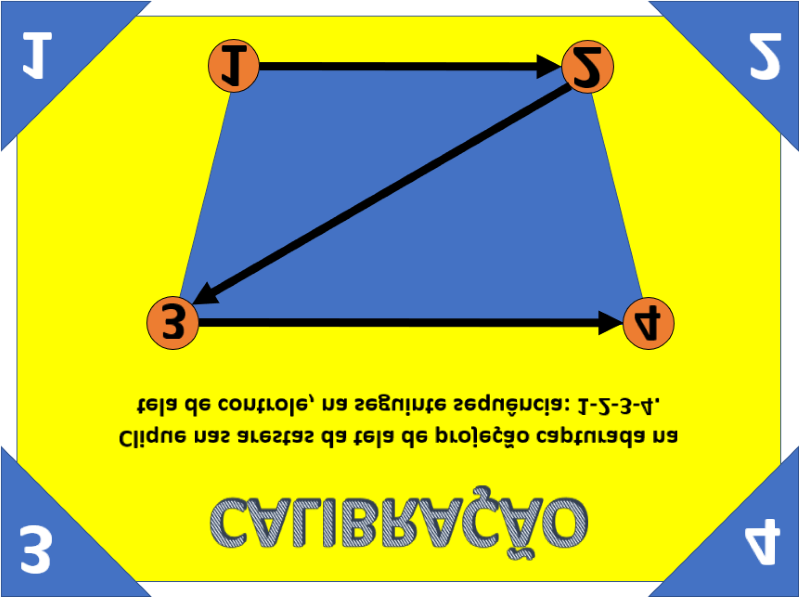
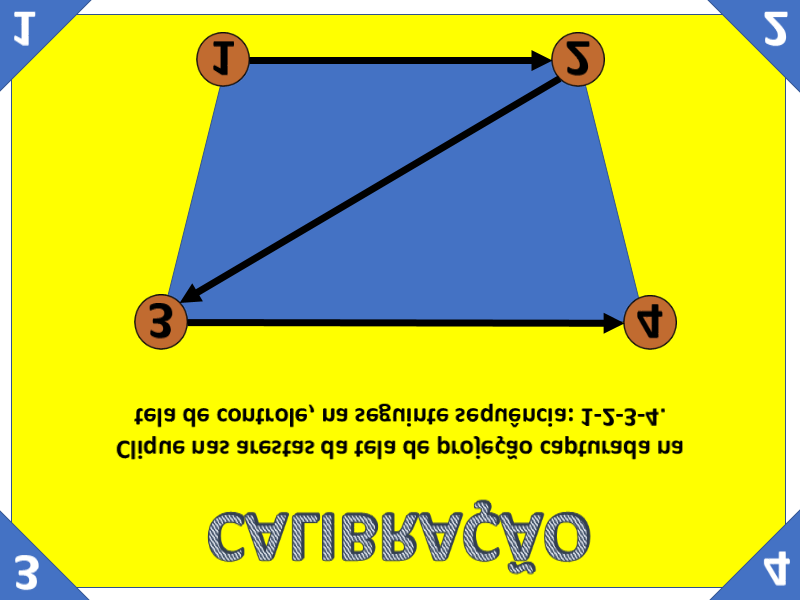
Adição das imagens de calibração manual por idioma. Ajuste da documentação da classe App.

Changed region(s): [[0.0, 0.0, 1.0, 1.0], [0.125, 0.6633, 0.875, 0.7839], [0.75, 0.2111, 0.7812, 0.392]]

diff --git a/src/ttea/main.py b/src/ttea/main.py
@@ -44,7 +44,7 @@ class App:
     Examples
     --------
     >>> app = App()
-    >>> app.run()  # doctest: +SKIP
+    >>> app.run()
     """
 
     def __init__(self) -> None:
@@ -74,7 +74,7 @@ class App:
         Examples
         --------
         >>> app = App()
-        >>> app.run()  # doctest: +SKIP
+        >>> app.run()
         """
         CriticalHooks.setup_exception_hooks()
         Log.get_log().log_info("Application started successfully.")
